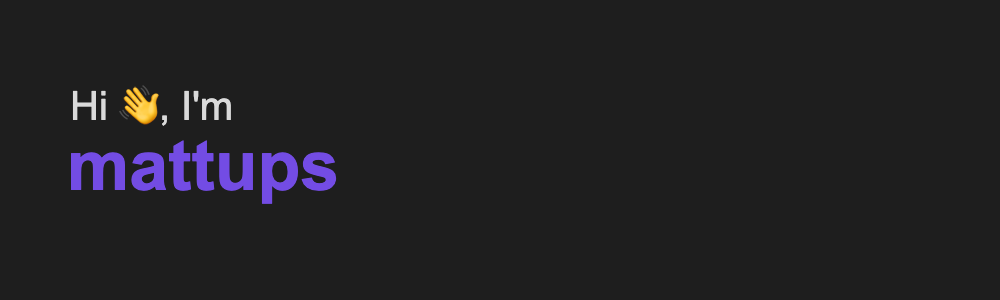
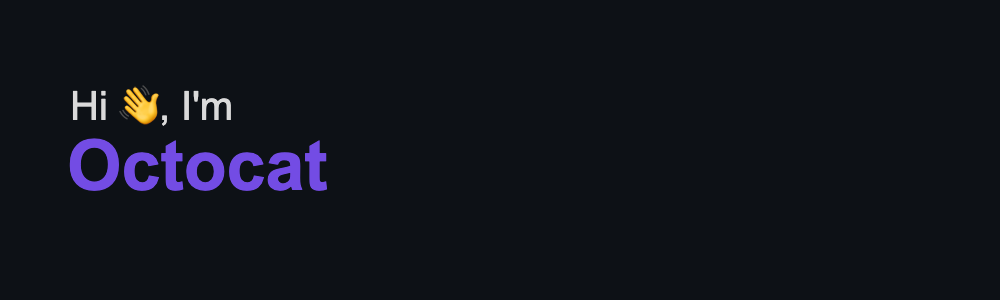
Updating header

Changed region(s): [[0.062, 0.45, 0.341, 0.69]]

diff --git a/README.md b/README.md
@@ -1,4 +1,5 @@
-# Hey there 👋
+[![Banner][banner-img]][banner-link]
+
 ## Who I am
 > Patterns before tools.
 
@@ -10,3 +11,6 @@ Constantly evolving to embrace the next challenge, give me a shell and I'll be h
 [![spotify-github-profile](https://spotify-github-profile.vercel.app/api/view?uid=1197898393&cover_image=true&theme=default&show_offline=true&background_color=121212&interchange=false&bar_color=7b4eb1&bar_color_cover=true)](https://spotify-github-profile.vercel.app/api/view?uid=1197898393&redirect=true)
 
 [![Readme Quotes](https://quotes-github-readme.vercel.app/api?type=horizontal&theme=nord)](https://github.com/piyushsuthar/github-readme-quotes)
+
+[banner-img]: https://raw.githubusercontent.com/mattups/mattups/main/assets/header.png
+[banner-link]: https://github.com/mattups
